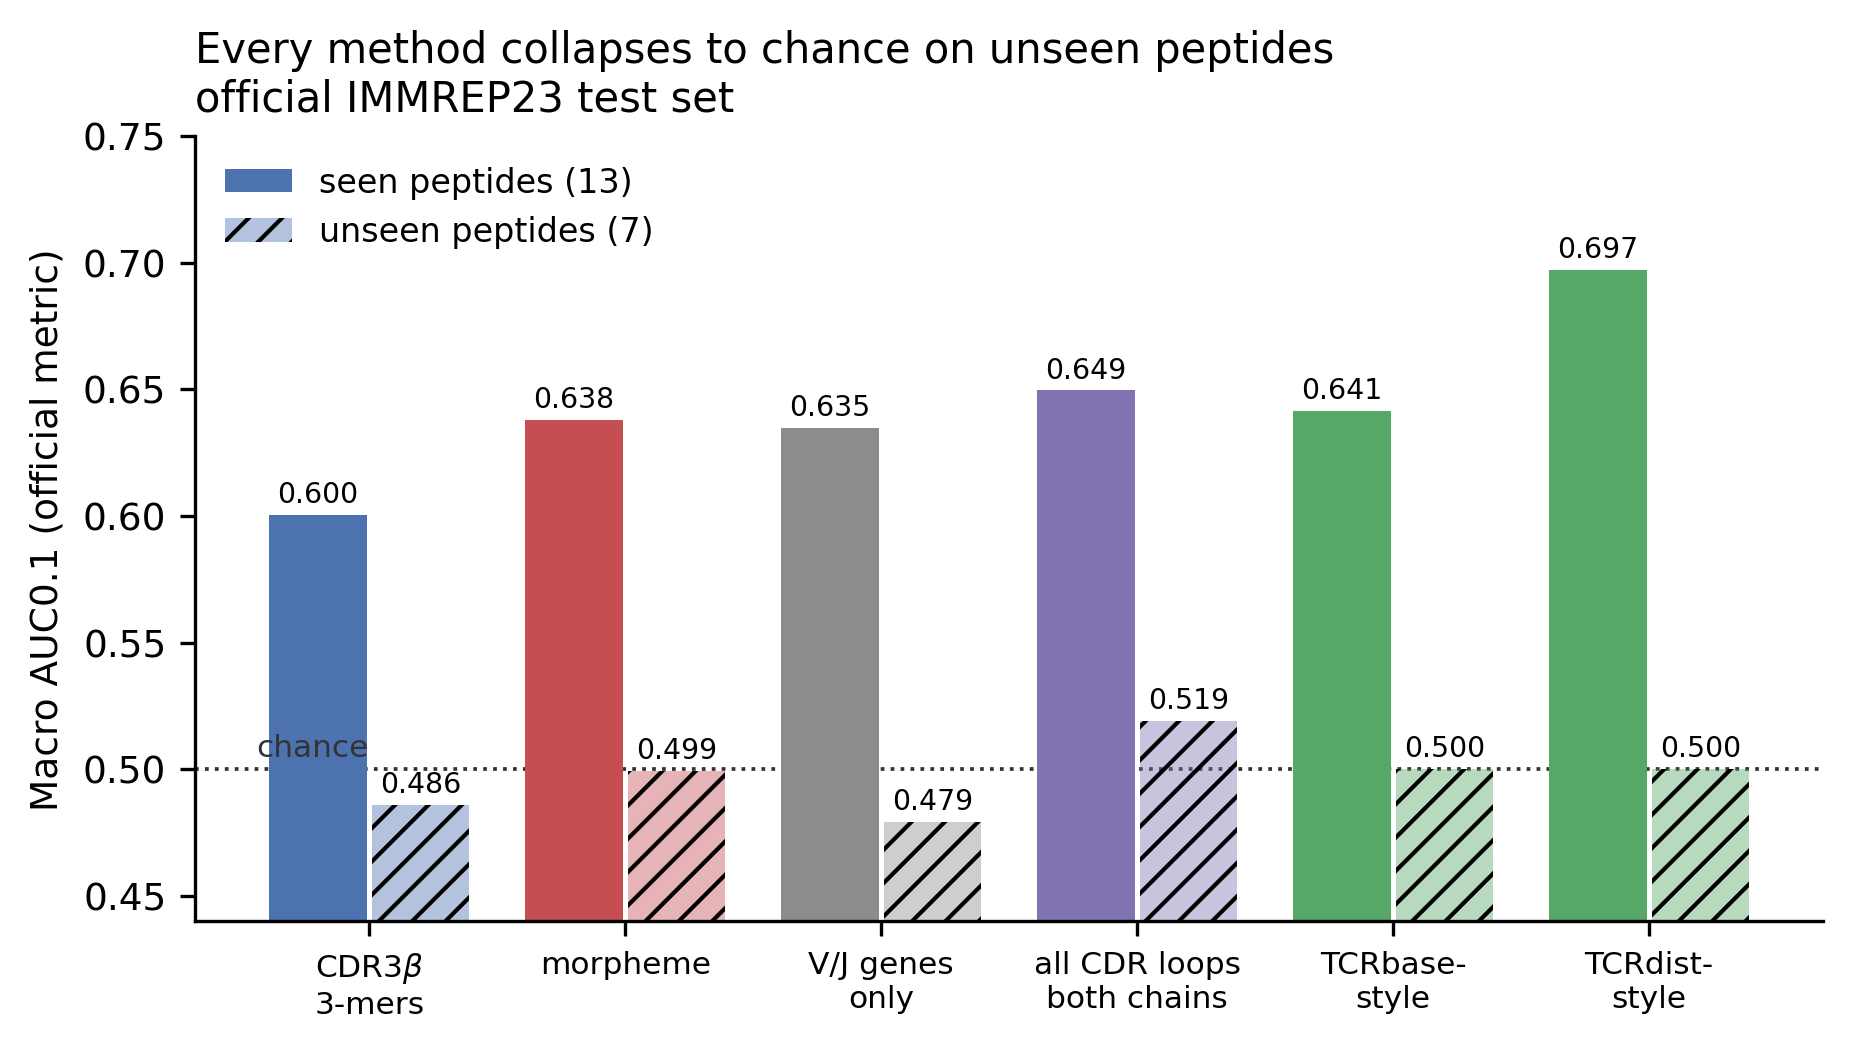
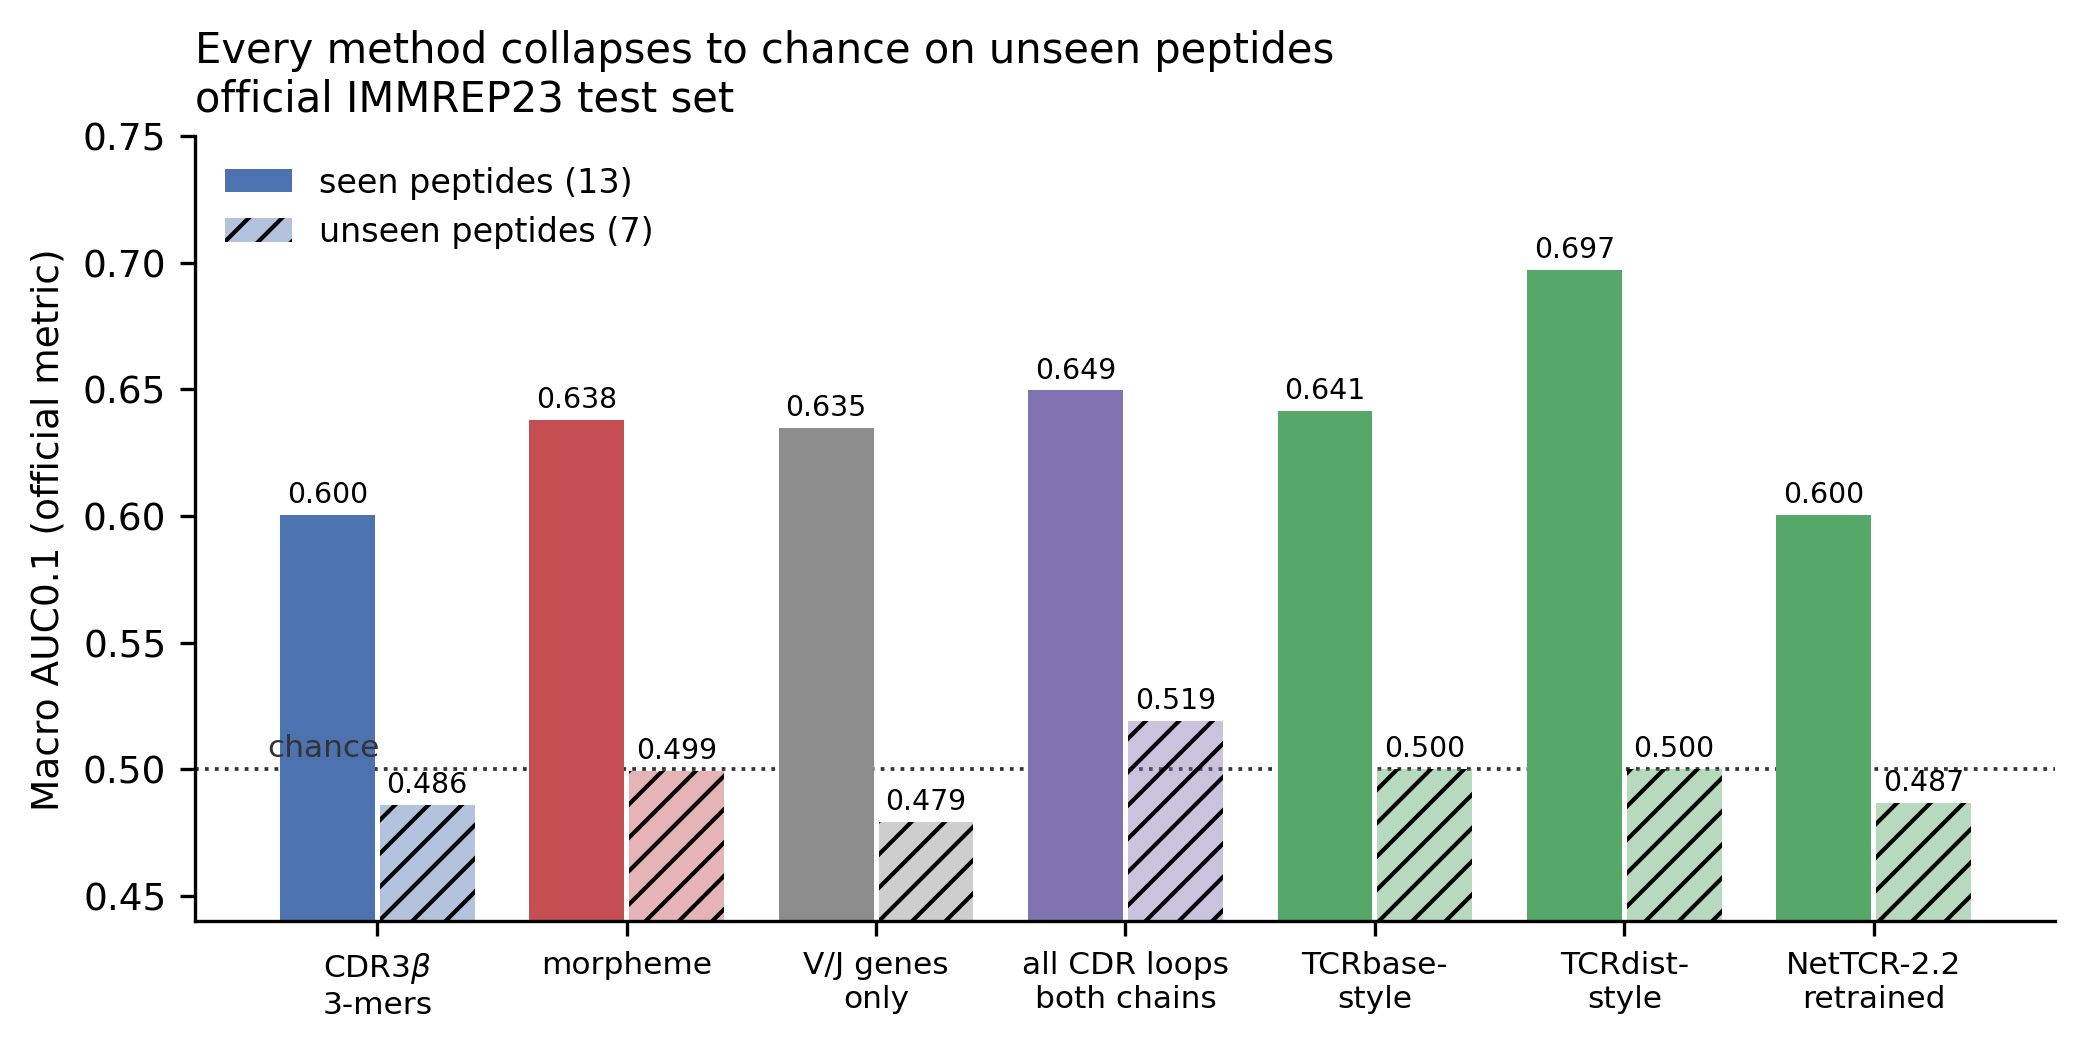
Retrain and score NetTCR-2.2 on the identical IMMREP23 split
The published deep architecture, trained on the same 67,698 pairs our arms
saw, scores 0.6003 Macro AUC0.1 on seen peptides and 0.4868 on unseen -
indistinguishable from CDR3b 3-mers (+0.0004, CI [-0.0425, +0.0339]) and
below the TCRdist-style baseline (-0.0675, CI [-0.1164, -0.0272]).

Removes the largest gap in the benchmark comparison: the generalization
failure is not an artifact of our linear model class.

- score_nettcr.py: loads the checkpoint, replicates the published BLOSUM50
  encoding, scores with the official Macro AUC0.1, paired bootstrap vs arms
- benchmark_immrep23.py: dump per-peptide scores so other scripts can run
  paired comparisons without retraining
- make_figures.py: add the NetTCR arm to Figure 3
- .gitignore: exclude third-party NetTCR-2.2 and regenerable run artifacts

Changed region(s): [[0.0, 0.0305, 0.9541, 0.9762]]

diff --git a/score_nettcr.py b/score_nettcr.py
@@ -1,0 +1,183 @@
+#!/usr/bin/env python3
+"""
+Score the retrained NetTCR-2.2 pan model on the official IMMREP23 test set
+==========================================================================
+
+Completes the published-method comparison. prepare_nettcr_data.py built the
+training split; NetTCR-2.2's own train_nettcr_2_2_pan.py produced the checkpoint
+in nettcr_run/model/checkpoint/. This script loads that checkpoint, predicts on
+the official test set, and scores it with the same Macro AUC0.1 implementation
+benchmark_immrep23.py uses, so the number drops straight into Table 5.
+
+Encoding replicates train_nettcr_2_2_pan.py exactly: BLOSUM50 20aa, right-padded
+to the published input widths, divided by 5.
+
+Why retrained rather than released weights: see prepare_nettcr_data.py. The
+released weights are trained on IEDB/VDJdb/10X data that IMMREP23 also draws
+from, so they would be evaluated partly on their own training data.
+
+Usage:
+    .venv/bin/python score_nettcr.py
+"""
+
+import json
+import os
+import sys
+
+import numpy as np
+import pandas as pd
+from sklearn.metrics import roc_auc_score
+
+sys.path.insert(0, 'NetTCR-2.2/src')
+sys.path.insert(0, '.')
+
+SEED = 20260727
+MODEL = 'nettcr_run/model/checkpoint/pan_immrep23.h5'
+TEST = 'nettcr_run/test.csv'
+OFFICIAL_TEST = 'benchmarks/immrep23_solutions.csv'
+OFFICIAL_TRAIN = 'benchmarks/immrep23_VDJdb_paired_chain.csv'
+PER_PEPTIDE_JSON = 'immrep23_per_peptide.json'
+OUT = 'nettcr_run/nettcr_predictions.csv'
+
+# published input widths, train_nettcr_2_2_pan.py lines 90-96
+WIDTHS = {'peptide': 12, 'A1': 7, 'A2': 8, 'A3': 22,
+          'B1': 6, 'B2': 7, 'B3': 23}
+
+
+def rule(ch='='):
+    print(ch * 74)
+
+
+def macro_auc01(peptides, labels, scores):
+    """Official metric: per-peptide AUC0.1 (McClish), then arithmetic mean."""
+    df = pd.DataFrame({'peptide': peptides, 'y': labels, 's': scores})
+    per = {}
+    for pep, g in df.groupby('peptide'):
+        if len(np.unique(g['y'].values)) < 2:
+            continue
+        per[pep] = roc_auc_score(g['y'].values, g['s'].values, max_fpr=0.1)
+    return (float(np.mean(list(per.values()))) if per else float('nan')), per
+
+
+def main():
+    if not os.path.exists(MODEL):
+        print(f"missing checkpoint: {MODEL}")
+        print("run prepare_nettcr_data.py, then NetTCR-2.2's "
+              "train_nettcr_2_2_pan.py")
+        return 1
+
+    import tensorflow as tf
+    from tensorflow import keras
+    import keras_utils
+
+    rule()
+    print("NetTCR-2.2 (pan, retrained on IMMREP23) — official test set")
+    rule()
+
+    test = pd.read_csv(TEST)
+    official = pd.read_csv(OFFICIAL_TEST)
+    train = pd.read_csv(OFFICIAL_TRAIN)
+    train = train[train['Target'] == 1]
+    seen_peps = set(train['Peptide'])
+
+    print(f"test rows scored          : {len(test):,} of {len(official):,} "
+          f"official")
+    if len(test) != len(official):
+        print("  NOTE: rows differ; comparison to Table 5 is on the retained "
+              "subset only")
+    print(f"test peptides             : {test['peptide'].nunique()} "
+          f"({test['binder'].mean():.1%} positive)")
+
+    # --- encode exactly as training did -----------------------------------
+    enc = keras_utils.blosum50_20aa
+
+    def encode(col, width):
+        return np.float32(
+            keras_utils.enc_list_bl_max_len(test[col], enc, width) / 5)
+
+    x = {'pep': encode('peptide', WIDTHS['peptide']),
+         'a1': encode('A1', WIDTHS['A1']),
+         'a2': encode('A2', WIDTHS['A2']),
+         'a3': encode('A3', WIDTHS['A3']),
+         'b1': encode('B1', WIDTHS['B1']),
+         'b2': encode('B2', WIDTHS['B2']),
+         'b3': encode('B3', WIDTHS['B3'])}
+
+    # the checkpoint was saved with a custom metric; supply it to load
+    def my_numpy_function(y_true, y_pred):
+        try:
+            return roc_auc_score(y_true, y_pred, max_fpr=0.1)
+        except ValueError:
+            return np.array([float(0)])
+
+    def auc_01(y_true, y_pred):
+        return tf.numpy_function(my_numpy_function, [y_true, y_pred],
+                                 tf.float64)
+
+    model = keras.models.load_model(MODEL,
+                                    custom_objects={'auc_01': auc_01})
+    scores = model.predict(x, batch_size=64, verbose=0).ravel()
+
+    y = test['binder'].values
+    peps = test['peptide'].values
+    macro, per = macro_auc01(peps, y, scores)
+
+    s_vals = [v for p, v in per.items() if p in seen_peps]
+    u_vals = [v for p, v in per.items() if p not in seen_peps]
+
+    rule('-')
+    print(f"   {'model':<12s} {'all':>8s} {'seen':>8s} {'unseen':>8s}")
+    print(f"   {'nettcr2.2':<12s} {macro:>8.4f} "
+          f"{np.mean(s_vals):>8.4f} {np.mean(u_vals):>8.4f}")
+    print(f"\n   n peptides: seen {len(s_vals)}, unseen {len(u_vals)}")
+    rule('-')
+    print("PER-PEPTIDE Macro AUC0.1")
+    rule('-')
+    for pep in sorted(per, key=lambda p: -per[p]):
+        tag = 'seen' if pep in seen_peps else 'UNSEEN'
+        print(f"   {pep:<14s} {per[pep]:.4f}  {tag}")
+
+    pd.DataFrame({'peptide': peps, 'binder': y,
+                  'nettcr_score': scores}).to_csv(OUT, index=False)
+    print(f"\nwrote {OUT}")
+
+    # ---------------- paired comparison against the other arms -------------
+    if os.path.exists(PER_PEPTIDE_JSON):
+        ref = json.load(open(PER_PEPTIDE_JSON))['per_peptide']
+        rng = np.random.default_rng(SEED)
+        rule('-')
+        print("PAIRED PER-PEPTIDE COMPARISONS, 5,000 bootstrap resamples")
+        rule('-')
+
+        def paired(other, subset, name):
+            shared = sorted(p for p in (set(per) & set(other)) if subset(p))
+            if len(shared) < 3:
+                print(f"   {name:<30s} too few peptides ({len(shared)})")
+                return
+            d = np.array([per[p] - other[p] for p in shared])
+            boot = np.array([np.mean(rng.choice(d, size=len(d), replace=True))
+                             for _ in range(5000)])
+            lo, hi = np.percentile(boot, [2.5, 97.5])
+            verdict = ('better' if lo > 0 else
+                       'no sig. difference' if hi > 0 else 'worse')
+            print(f"   {name:<30s} n={len(d):<3d} wins "
+                  f"{int((d > 0).sum()):>2d}  delta {d.mean():+.4f}  "
+                  f"CI [{lo:+.4f}, {hi:+.4f}]  {verdict}")
+
+        for arm in ('kmer3', 'morpheme', 'cdr123', 'tcrdist'):
+            if arm not in ref:
+                continue
+            paired(ref[arm], lambda p: True, f'nettcr - {arm}, all')
+            paired(ref[arm], lambda p: p in seen_peps,
+                   f'nettcr - {arm}, seen')
+            paired(ref[arm], lambda p: p not in seen_peps,
+                   f'nettcr - {arm}, UNSEEN')
+    else:
+        print(f"({PER_PEPTIDE_JSON} not found; run benchmark_immrep23.py "
+              f"for paired comparisons)")
+    rule()
+    return 0
+
+
+if __name__ == '__main__':
+    sys.exit(main())

diff --git a/make_figures.py b/make_figures.py
@@ -153,16 +153,16 @@ def fig2_grammaticality():
 # ---------------------------------------------------------------------------
 
 def fig3_seen_unseen():
-    # Source: benchmark_immrep23.py
+    # Source: benchmark_immrep23.py; nettcr2.2 from score_nettcr.py
     models = ['CDR3$\\beta$\n3-mers', 'morpheme', 'V/J genes\nonly',
               'all CDR loops\nboth chains', 'TCRbase-\nstyle',
-              'TCRdist-\nstyle']
-    seen = [0.6003, 0.6378, 0.6346, 0.6495, 0.6414, 0.6971]
-    unseen = [0.4858, 0.4992, 0.4791, 0.5192, 0.5000, 0.5000]
-    cols = [C_BASE, C_TREAT, C_CTRL, C_ACC, C_REF, C_REF]
+              'TCRdist-\nstyle', 'NetTCR-2.2\nretrained']
+    seen = [0.6003, 0.6378, 0.6346, 0.6495, 0.6414, 0.6971, 0.6003]
+    unseen = [0.4858, 0.4992, 0.4791, 0.5192, 0.5000, 0.5000, 0.4868]
+    cols = [C_BASE, C_TREAT, C_CTRL, C_ACC, C_REF, C_REF, C_REF]
 
     x = np.arange(len(models))
-    fig, ax = plt.subplots(figsize=(7.0, 3.4))
+    fig, ax = plt.subplots(figsize=(8.0, 3.4))
     ax.bar(x - 0.2, seen, width=0.38, color=cols, label='seen peptides (13)')
     ax.bar(x + 0.2, unseen, width=0.38, color=cols, alpha=0.42,
            hatch='///', label='unseen peptides (7)')

diff --git a/benchmark_immrep23.py b/benchmark_immrep23.py
@@ -35,6 +35,7 @@ Usage:
     .venv/bin/python benchmark_immrep23.py
 """
 
+import json
 import sys
 from collections import defaultdict
 
@@ -52,6 +53,7 @@ N_NEG = 5
 HASH_FEATURES = 2 ** 18
 TRAIN_CSV = 'benchmarks/immrep23_VDJdb_paired_chain.csv'
 TEST_CSV = 'benchmarks/immrep23_solutions.csv'
+PER_PEPTIDE_JSON = 'immrep23_per_peptide.json'
 
 BLOSUM_FALLBACK = 4.0
 
@@ -361,6 +363,15 @@ def main():
     print("   training and emit a constant score. Nearest-neighbour methods are")
     print("   structurally incapable of unseen-epitope prediction; that is a")
     print("   property of the method class, not a tuning failure.")
+
+    # persist per-peptide scores so other scripts (score_nettcr.py) can run
+    # paired comparisons against these arms without retraining them
+    with open(PER_PEPTIDE_JSON, 'w') as fh:
+        json.dump({'seen_peptides': sorted(seen_peps & set(test_peps)),
+                   'unseen_peptides': unseen,
+                   'per_peptide': {arm: results[arm][1] for arm in results}},
+                  fh, indent=1, sort_keys=True)
+    print(f"\nwrote {PER_PEPTIDE_JSON}")
     rule()
     return 0
 
